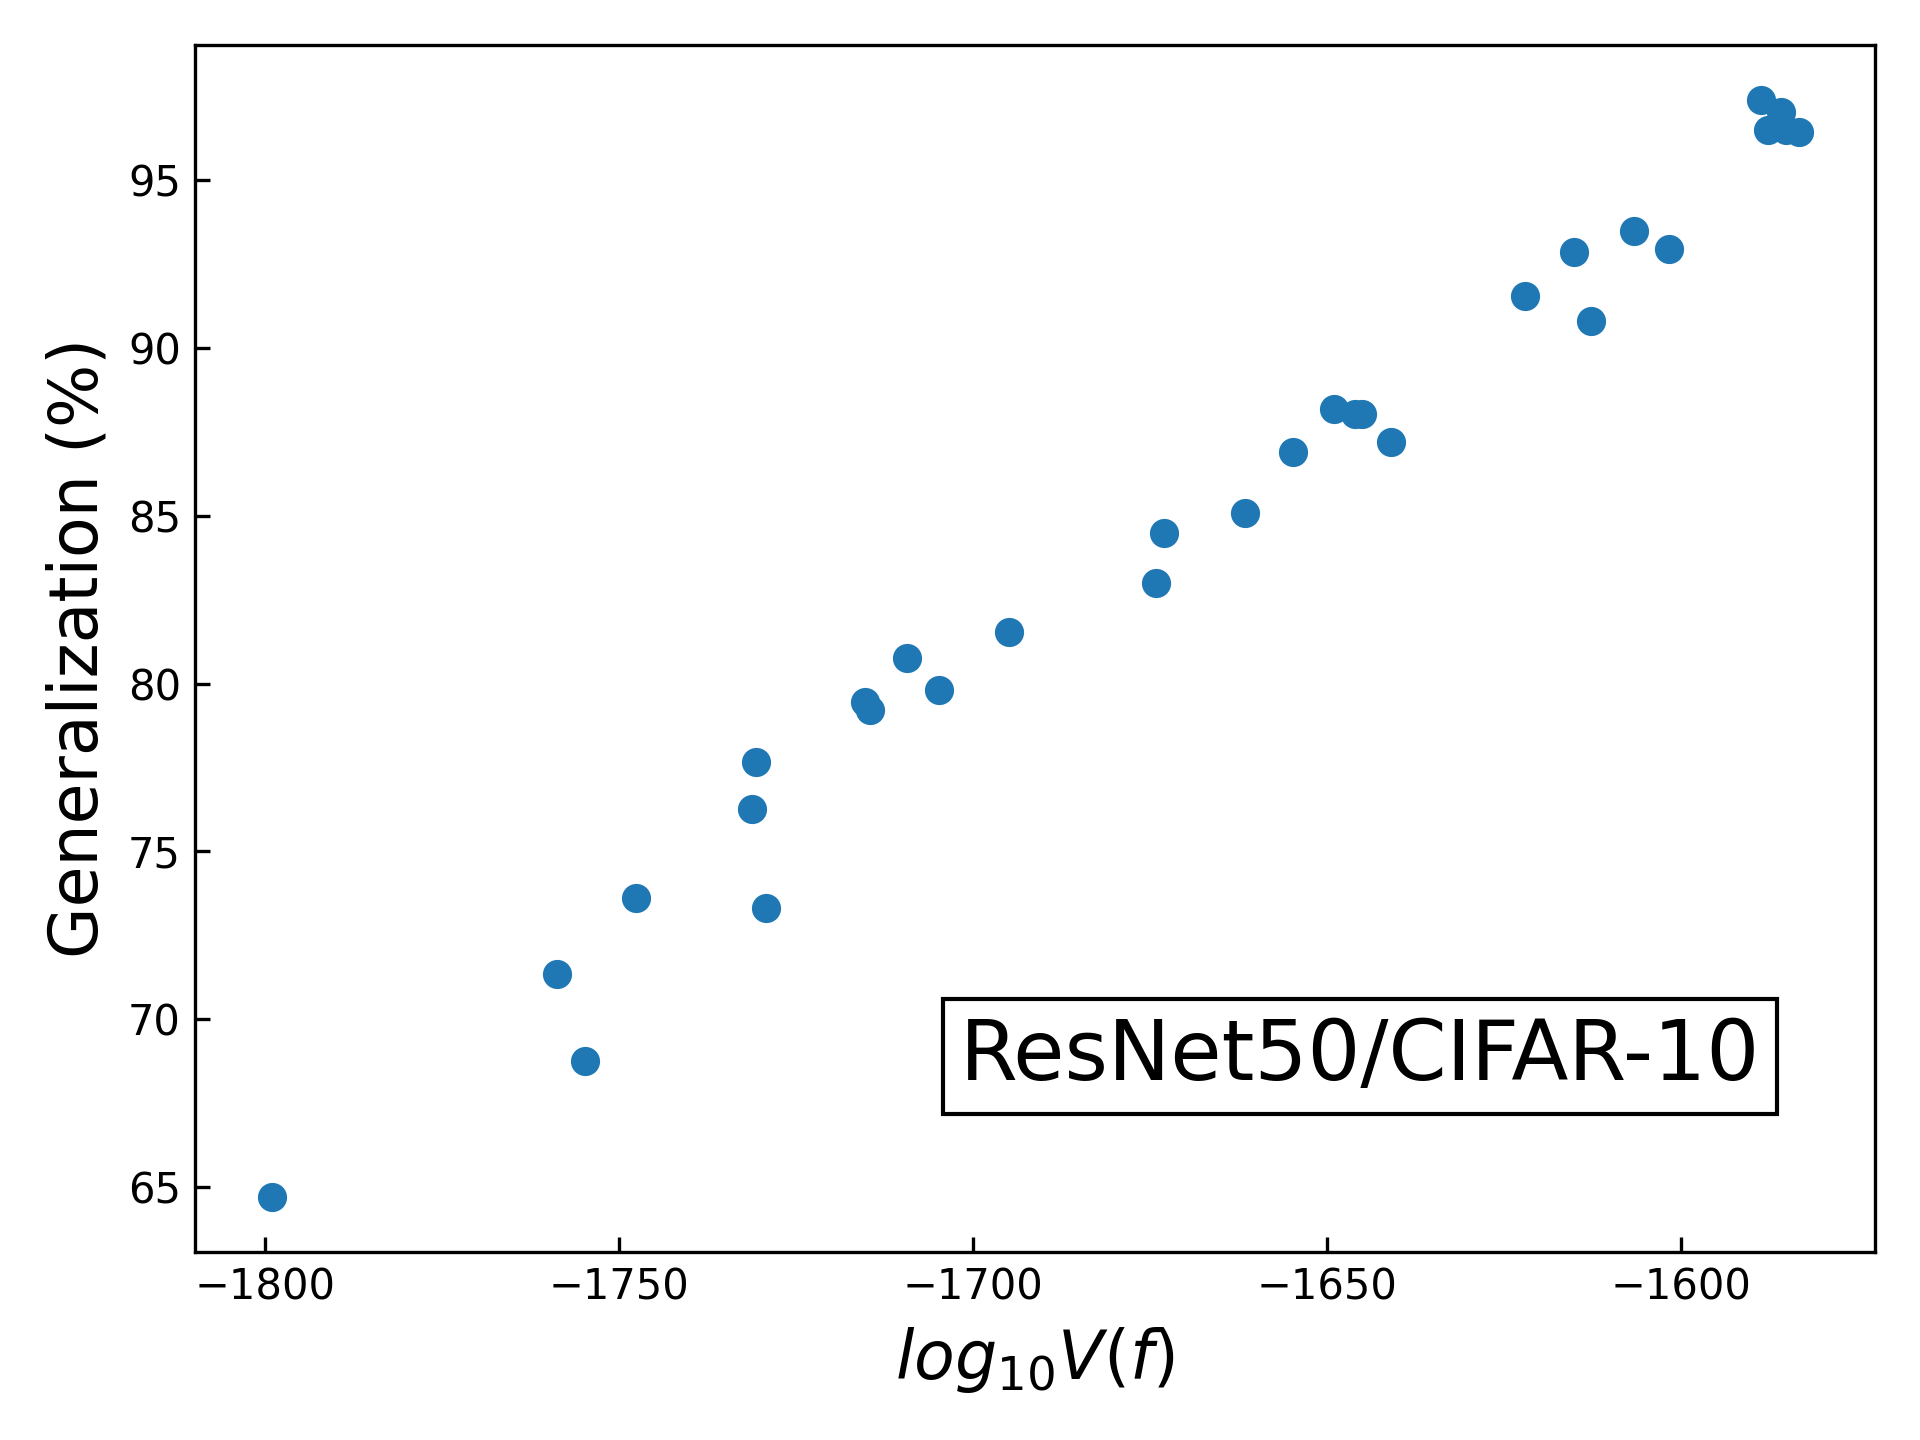
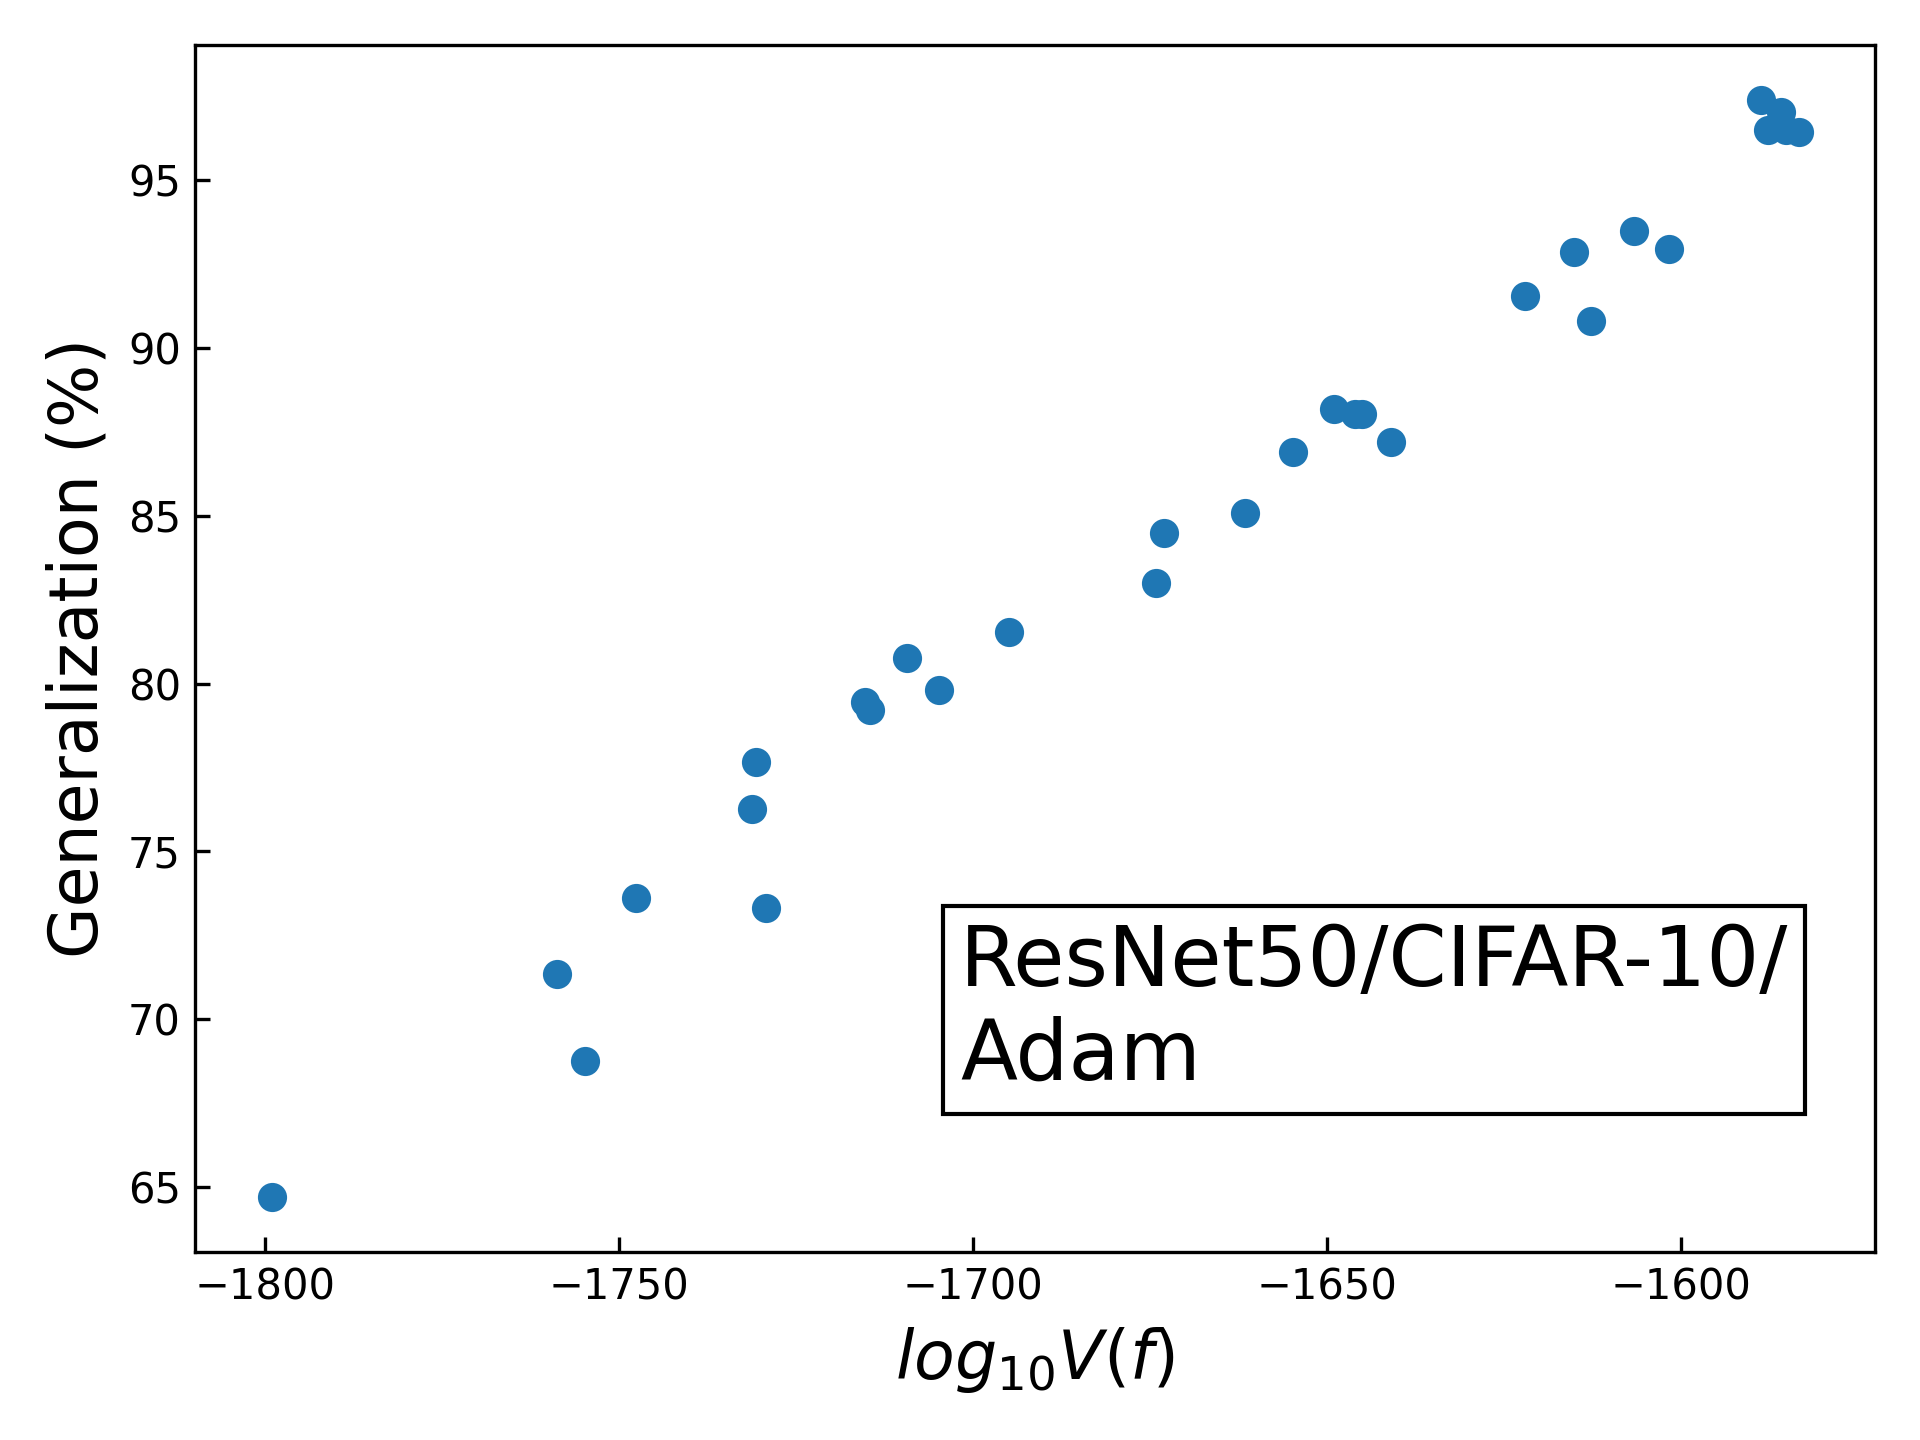
update pics

Changed region(s): [[0.5, 0.625, 0.9375, 0.75]]

diff --git a/playground/volume/attack_sets/checkpoints_part_0-2500/collect-plot-log10.py b/playground/volume/attack_sets/checkpoints_part_0-2500/collect-plot-log10.py
@@ -107,7 +107,7 @@ ax.scatter(-sharpness,generalization)
 ax.set_xlabel(r'-$log_{10}$(sharpness)',fontdict={'fontsize': 16, 'fontweight': 'medium'})
 ax.set_ylabel('Generalization (%)',fontdict={'fontsize': 16, 'fontweight': 'medium'})
 ax.tick_params(direction='in')
-fig.text(0.2,0.25,'ResNet50/CIFAR-10', bbox=dict(facecolor='none'), fontsize=20)
+fig.text(0.2,0.25,'ResNet50/CIFAR-10/\nAdam', bbox=dict(facecolor='none'), fontsize=20)
 fig.savefig('sharpness-generalization-resnet50.png', dpi=300)
 plt.clf()
 
@@ -181,7 +181,7 @@ ax.scatter(volume,generalization)
 ax.set_xlabel(r'$log_{10}V(f)$',fontdict={'fontsize': 16, 'fontweight': 'medium'})
 ax.set_ylabel('Generalization (%)',fontdict={'fontsize': 16, 'fontweight': 'medium'})
 ax.tick_params(direction='in')
-fig.text(0.5,0.25,'ResNet50/CIFAR-10', bbox=dict(facecolor='none'), fontsize=20)
+fig.text(0.5,0.25,'ResNet50/CIFAR-10/\nAdam', bbox=dict(facecolor='none'), fontsize=20)
 fig.savefig('volume-generalization-resnet50.png', dpi=300)
 plt.clf()
 
